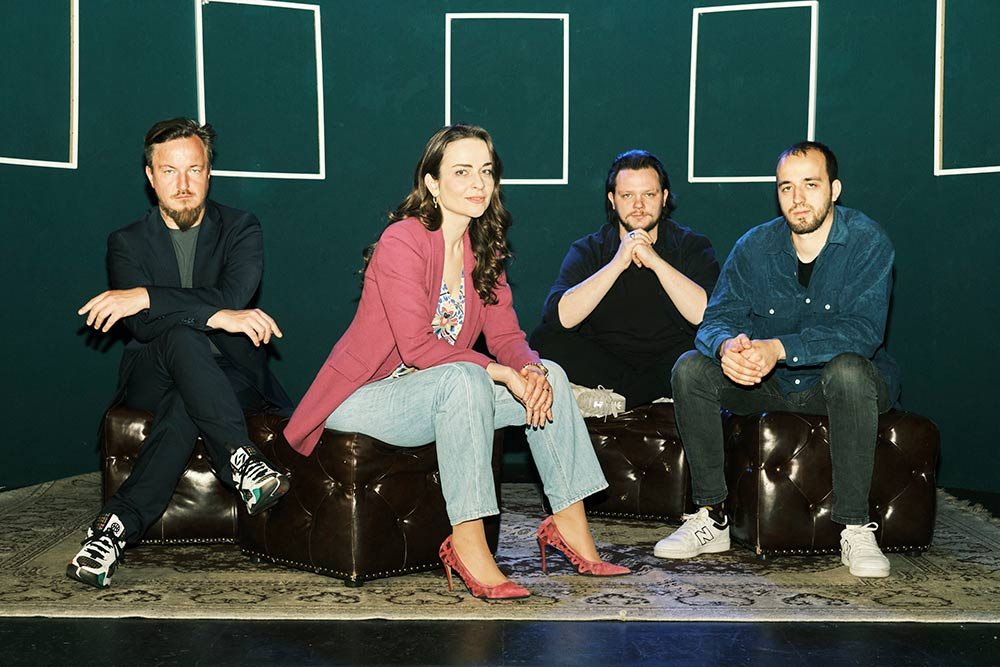
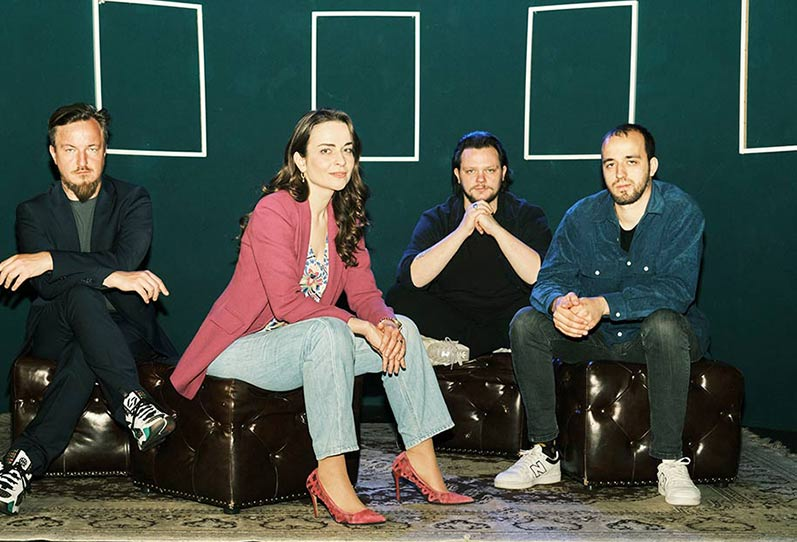
17.05.2024-2

diff --git a/vis_breeze/templates/index.html b/vis_breeze/templates/index.html
@@ -227,7 +227,7 @@
 
 
                 <div class="col-lg-9 order_2" style="display: flex;justify-content: end;">
-                    <img class="img-fluid" style="width: 915px;height: auto;filter: sepia(0);" src="{% static 'img/lana_janjanin_1Edit.jpg' %}" alt="Lana Janjanin Quarter">
+                    <img class="img-fluid" style="width: 925px;height:auto;filter: sepia(0);" src="{% static 'img/lana_j2.jpg' %}" alt="Lana Janjanin Quarter">
                 </div>
 
             </div>
